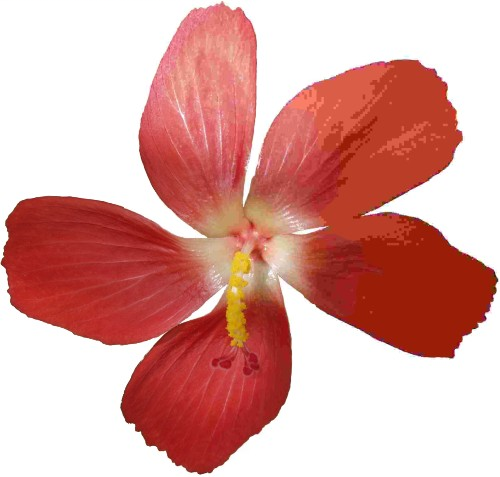
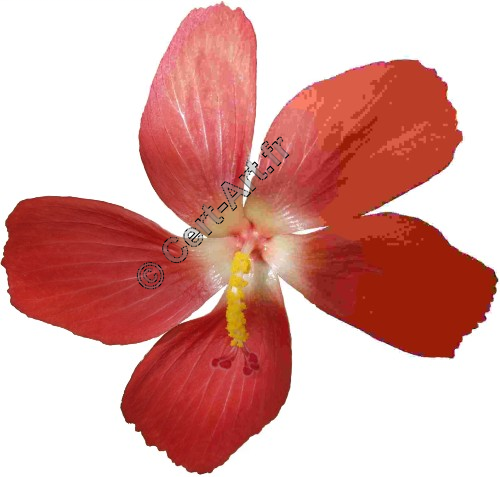
changes in signature

Changed region(s): [[0.27, 0.2935, 0.57, 0.6164]]

diff --git a/certifier_image/pipeline.py b/certifier_image/pipeline.py
@@ -8,6 +8,7 @@ from datetime import datetime
 from pathlib import Path
 
 from . import state
+from .native import hash_image
 from .utils import (
     ensure_dir,
     explain_source_fallback,
@@ -168,6 +169,12 @@ def run_exif() -> bool:
             f"Date/heure EXIF (YYYY:mm:dd HH:MM:SS) [defaut: {current_date}] : "
         )
         state.EXIF_DATE = value or current_date
+
+        value = input(f"Nom de l'artiste [defaut: {state.EXIF_ARTIST}] : ")
+        state.EXIF_ARTIST = value or state.EXIF_ARTIST
+
+        value = input(f"Copyright [defaut: {state.EXIF_COPYRIGHT}] : ")
+        state.EXIF_COPYRIGHT = value or state.EXIF_COPYRIGHT
     else:
         state.EXIF_DATE = state.EXIF_CUSTOM_DATE or current_date
 
@@ -180,9 +187,9 @@ def run_exif() -> bool:
                 f"-DateTimeOriginal={state.EXIF_DATE}",
                 f"-CreateDate={state.EXIF_DATE}",
                 f"-ImageUniqueID={state.EXIF_DATE}:001",
-                "-Creator=\u00a9 Cert-Art.fr",
-                "-Artist=\u00a9 Cert-Art.fr",
-                "-Copyright=\u00a9 Cert-Art.fr",
+                f"-Creator={state.EXIF_ARTIST}",
+                f"-Artist={state.EXIF_ARTIST}",
+                f"-Copyright={state.EXIF_COPYRIGHT}",
                 str(state.FILE_WM_EXIF),
             ]
         )
@@ -270,62 +277,19 @@ def run_signature() -> bool:
     explain_source_fallback("Signature", carrier_file, state.FILE_WM_INVISIBLE)
 
     ensure_dir(state.SIG_FILE.parent)
-    if not Path(state.SIG_FILE).is_file():
-        sig_pwd = f"{state.IMG_BASE}_{datetime.now().strftime('%Y%m%d%H%M%S')}"
-        print(f"[INFO] Mot de passe genere automatiquement : {sig_pwd}")
-
-        if state.MODE_INTERACTIVE:
-            want_pwd = input("Voulez-vous saisir un mot de passe personnalise ? (y/n) [n] : ") or "n"
-            if want_pwd.lower() == "y":
-                sig_pwd = getpass.getpass("Entrer mot de passe : ")
-                sig_pwd2 = getpass.getpass("Confirmer mot de passe : ")
-                if sig_pwd != sig_pwd2:
-                    print("[ERROR] Les mots de passe ne correspondent pas")
-                    return False
-
-        try:
-            run_command(
-                ["java", "-jar", str(state.OPENSTEGO_JAR), "gensig", "-gf", str(state.SIG_FILE)],
-                input=f"{sig_pwd}\n{sig_pwd}\n",
-                text=True,
-            )
-        except FileNotFoundError:
-            print("[ERROR] java est introuvable")
-            return False
-        except subprocess.CalledProcessError as error:
-            print(f"[ERROR] Echec OpenStego gensig : {error}")
-            return False
-
-        if not Path(state.SIG_FILE).is_file():
-            print(f"[ERROR] La signature n'a pas ete creee : {state.SIG_FILE}")
-            return False
-        print(f"[OK] Fichier de signature cree : {state.SIG_FILE}")
-    else:
-        print(f"[INFO] Fichier de signature deja present : {state.SIG_FILE}")
-
     try:
-        run_command(
-            [
-                "java",
-                "-jar",
-                str(state.OPENSTEGO_JAR),
-                "embedmark",
-                "-gf",
-                str(state.SIG_FILE),
-                "-cf",
-                str(carrier_file),
-                "-sf",
-                str(state.FILE_NUM_SIGNED),
-            ]
-        )
-    except FileNotFoundError:
-        print("[ERROR] java est introuvable")
+        signature = hash_image(str(carrier_file)).hex()
+        Path(state.SIG_FILE).write_text(signature, encoding="utf-8")
+        shutil.copy2(carrier_file, state.FILE_NUM_SIGNED)
+    except OSError as error:
+        print(f"[ERROR] Impossible de creer la signature : {error}")
         return False
-    except subprocess.CalledProcessError as error:
-        print(f"[ERROR] Echec OpenStego embedmark : {error}")
+    except Exception as error:
+        print(f"[ERROR] Echec du hash de signature : {error}")
         return False
 
-    print(f"[OK] Signature appliquee sur {state.FILE_NUM_SIGNED}")
+    print(f"[OK] Signature SHA-256 creee : {state.SIG_FILE}")
+    print(f"[OK] Image reference pour blockchain : {state.FILE_NUM_SIGNED}")
     return True
 
 
@@ -396,29 +360,29 @@ def check_stegano() -> bool:
 def check_signature() -> bool:
     print("=== Verification de la signature numerique ===")
     if not Path(state.FILE_NUM_SIGNED).is_file():
-        print("[INFO] Tatouage numerique : aucune info")
+        print("[INFO] Image signee introuvable")
+        return False
+    if not Path(state.SIG_FILE).is_file():
+        print("[INFO] Fichier de signature introuvable")
         return False
 
     try:
-        run_command(
-            [
-                "java",
-                "-jar",
-                str(state.OPENSTEGO_JAR),
-                "checkmark",
-                "-gf",
-                str(state.SIG_FILE),
-                "-sf",
-                str(state.FILE_NUM_SIGNED),
-            ]
-        )
-    except FileNotFoundError:
-        print("[ERROR] java est introuvable")
+        expected_signature = Path(state.SIG_FILE).read_text(encoding="utf-8").strip()
+        actual_signature = hash_image(str(state.FILE_NUM_SIGNED)).hex()
+    except OSError as error:
+        print(f"[ERROR] Impossible de lire la signature : {error}")
         return False
-    except subprocess.CalledProcessError as error:
-        print(f"[ERROR] Echec OpenStego checkmark : {error}")
+    except Exception as error:
+        print(f"[ERROR] Verification de signature impossible : {error}")
         return False
 
+    if actual_signature != expected_signature:
+        print("[ERROR] Signature invalide")
+        print(f"  attendu : {expected_signature}")
+        print(f"  obtenu  : {actual_signature}")
+        return False
+
+    print("[OK] Signature valide")
     return True
 
 

diff --git a/certifier_image/state.py b/certifier_image/state.py
@@ -55,6 +55,8 @@ FILE_NUM_SIGNED = None
 SIG_FILE = None
 
 EXIF_DATE = None
+EXIF_ARTIST = "\u00a9 Cert-Art.fr"
+EXIF_COPYRIGHT = "\u00a9 Cert-Art.fr"
 
 KNOWN_ACTIONS = {
     "visible",

diff --git a/certifier_image/utils.py b/certifier_image/utils.py
@@ -59,7 +59,7 @@ def dependencies_for_action(action: str | None = None) -> tuple[list[tuple[str, 
         commands.append(("magick", "imagemagick"))
     elif action in {"exif", "show_exif"}:
         commands.append((resolve_exiftool_bin(), "exiftool"))
-    elif action in {"stegano", "signature", "check_stegano", "check_signature"}:
+    elif action in {"stegano", "check_stegano"}:
         commands.append(("java", "openjdk"))
         needs_openstego = True
     elif action in {"blockchain", "check_blockchain"}: